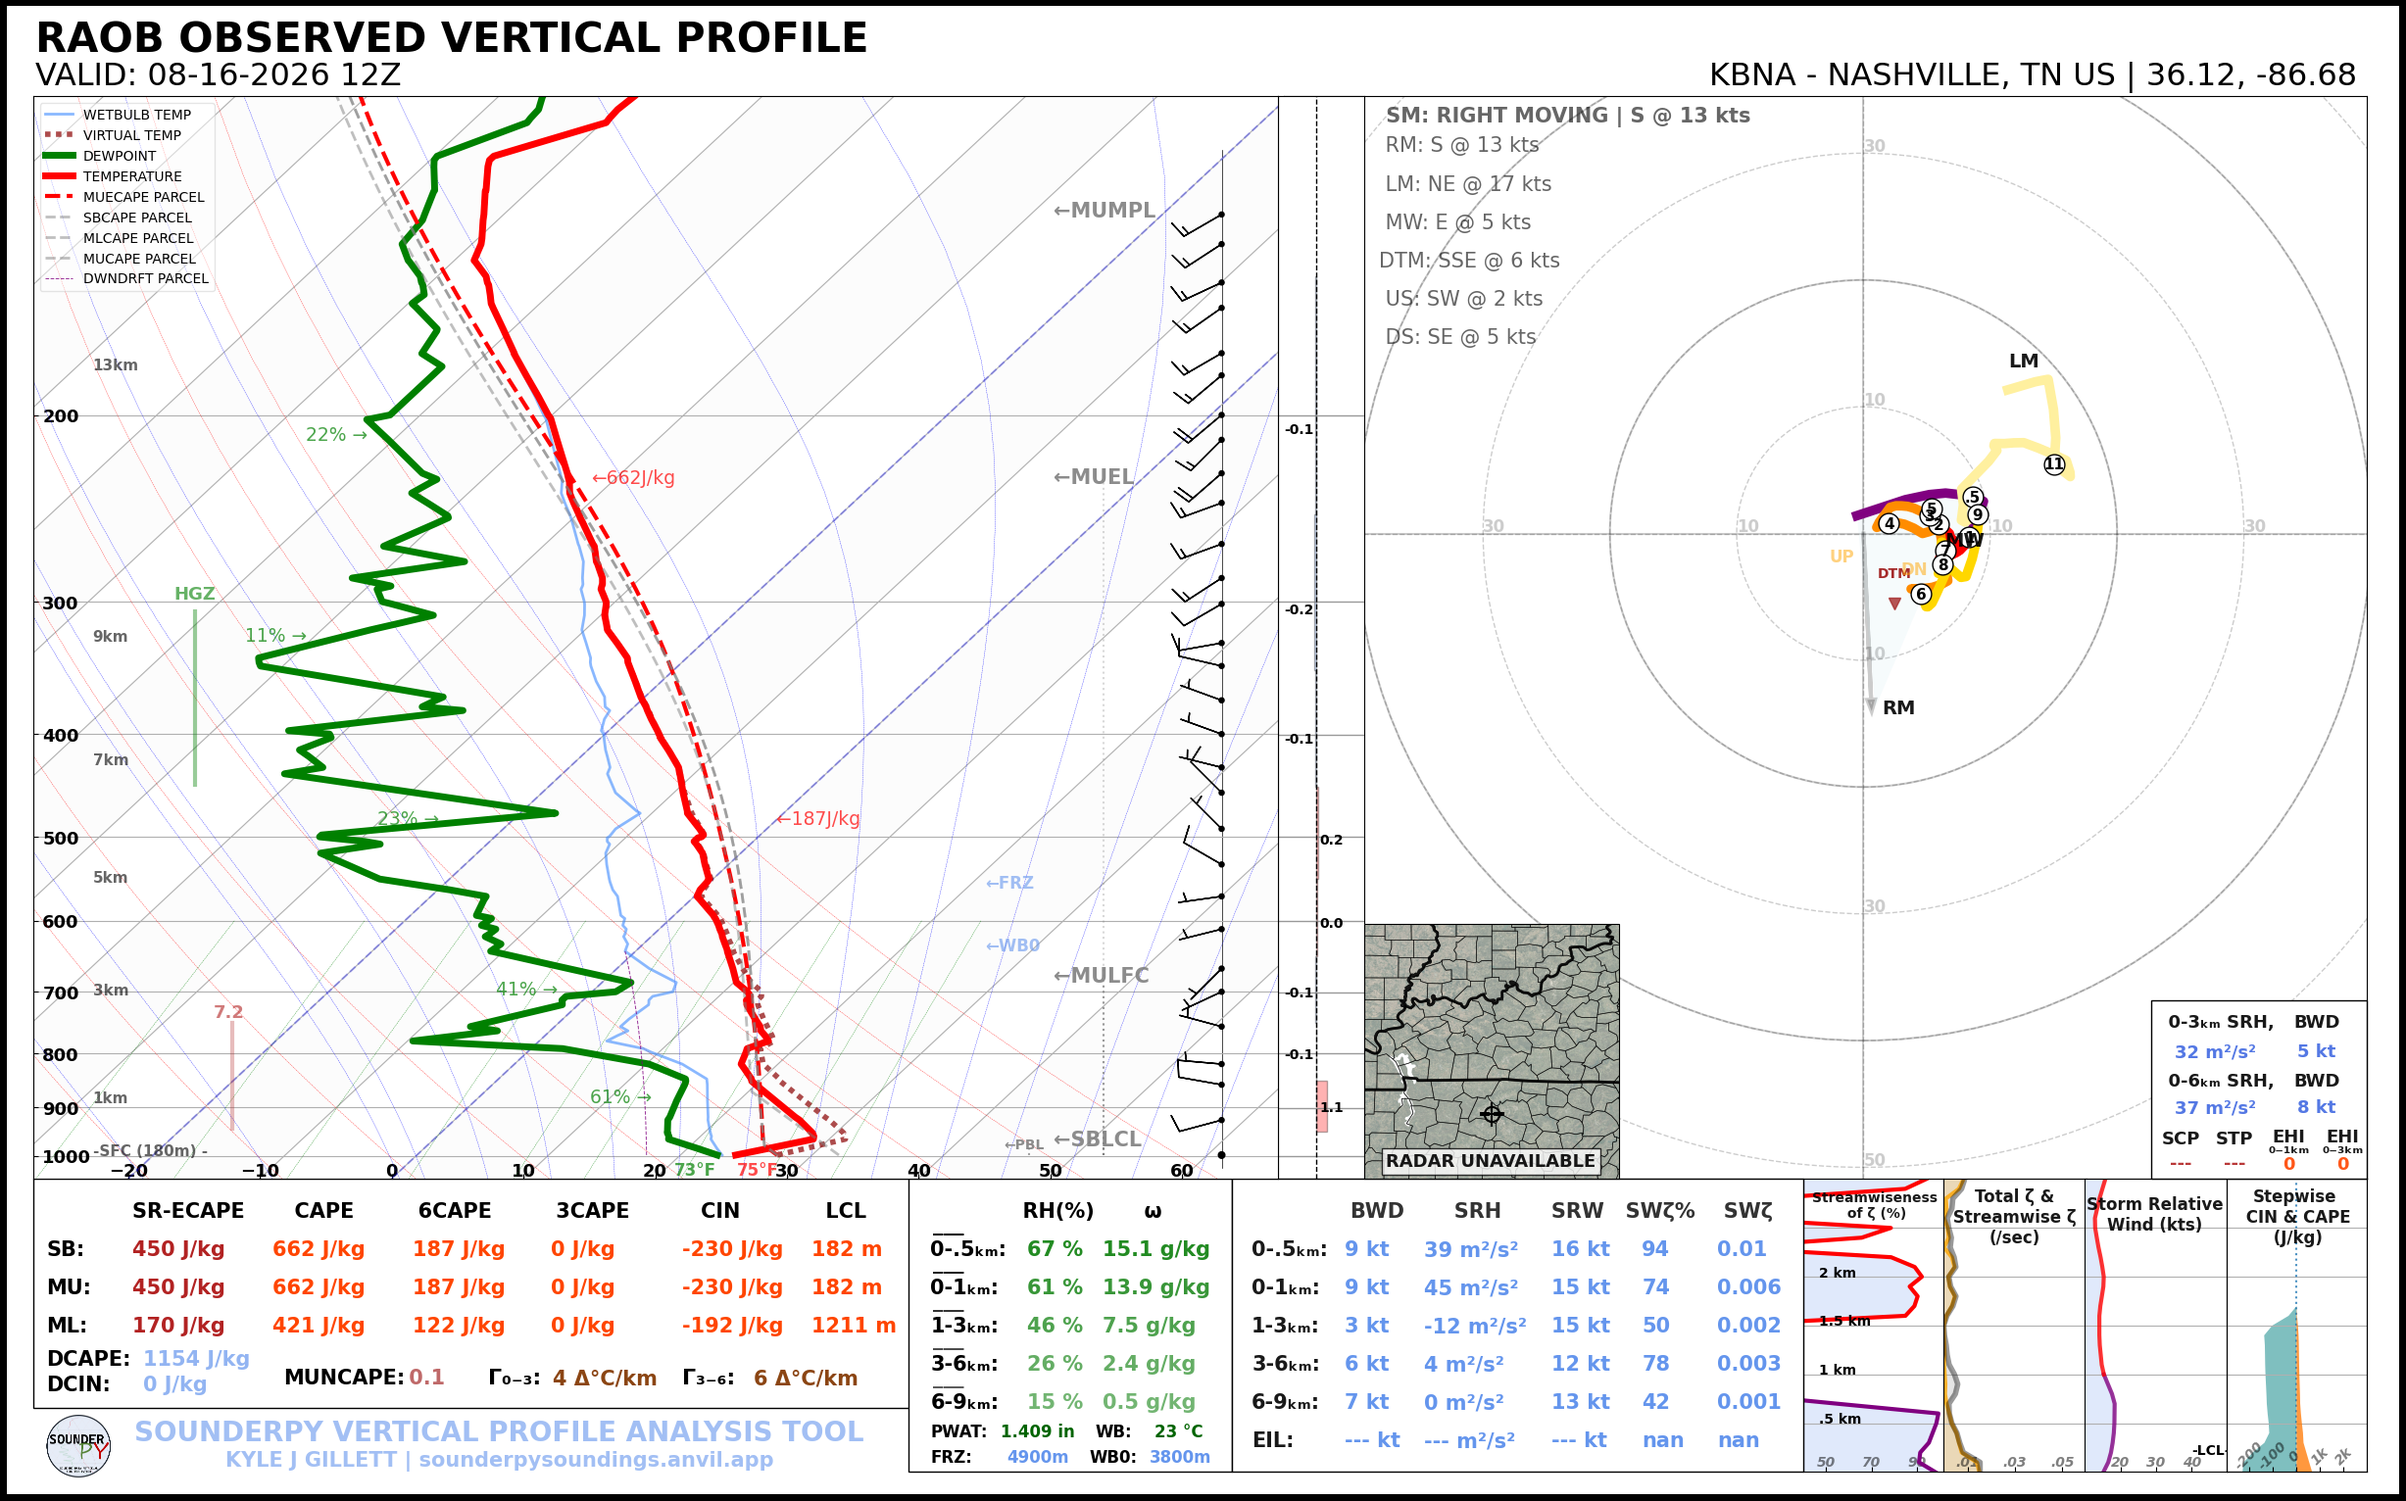
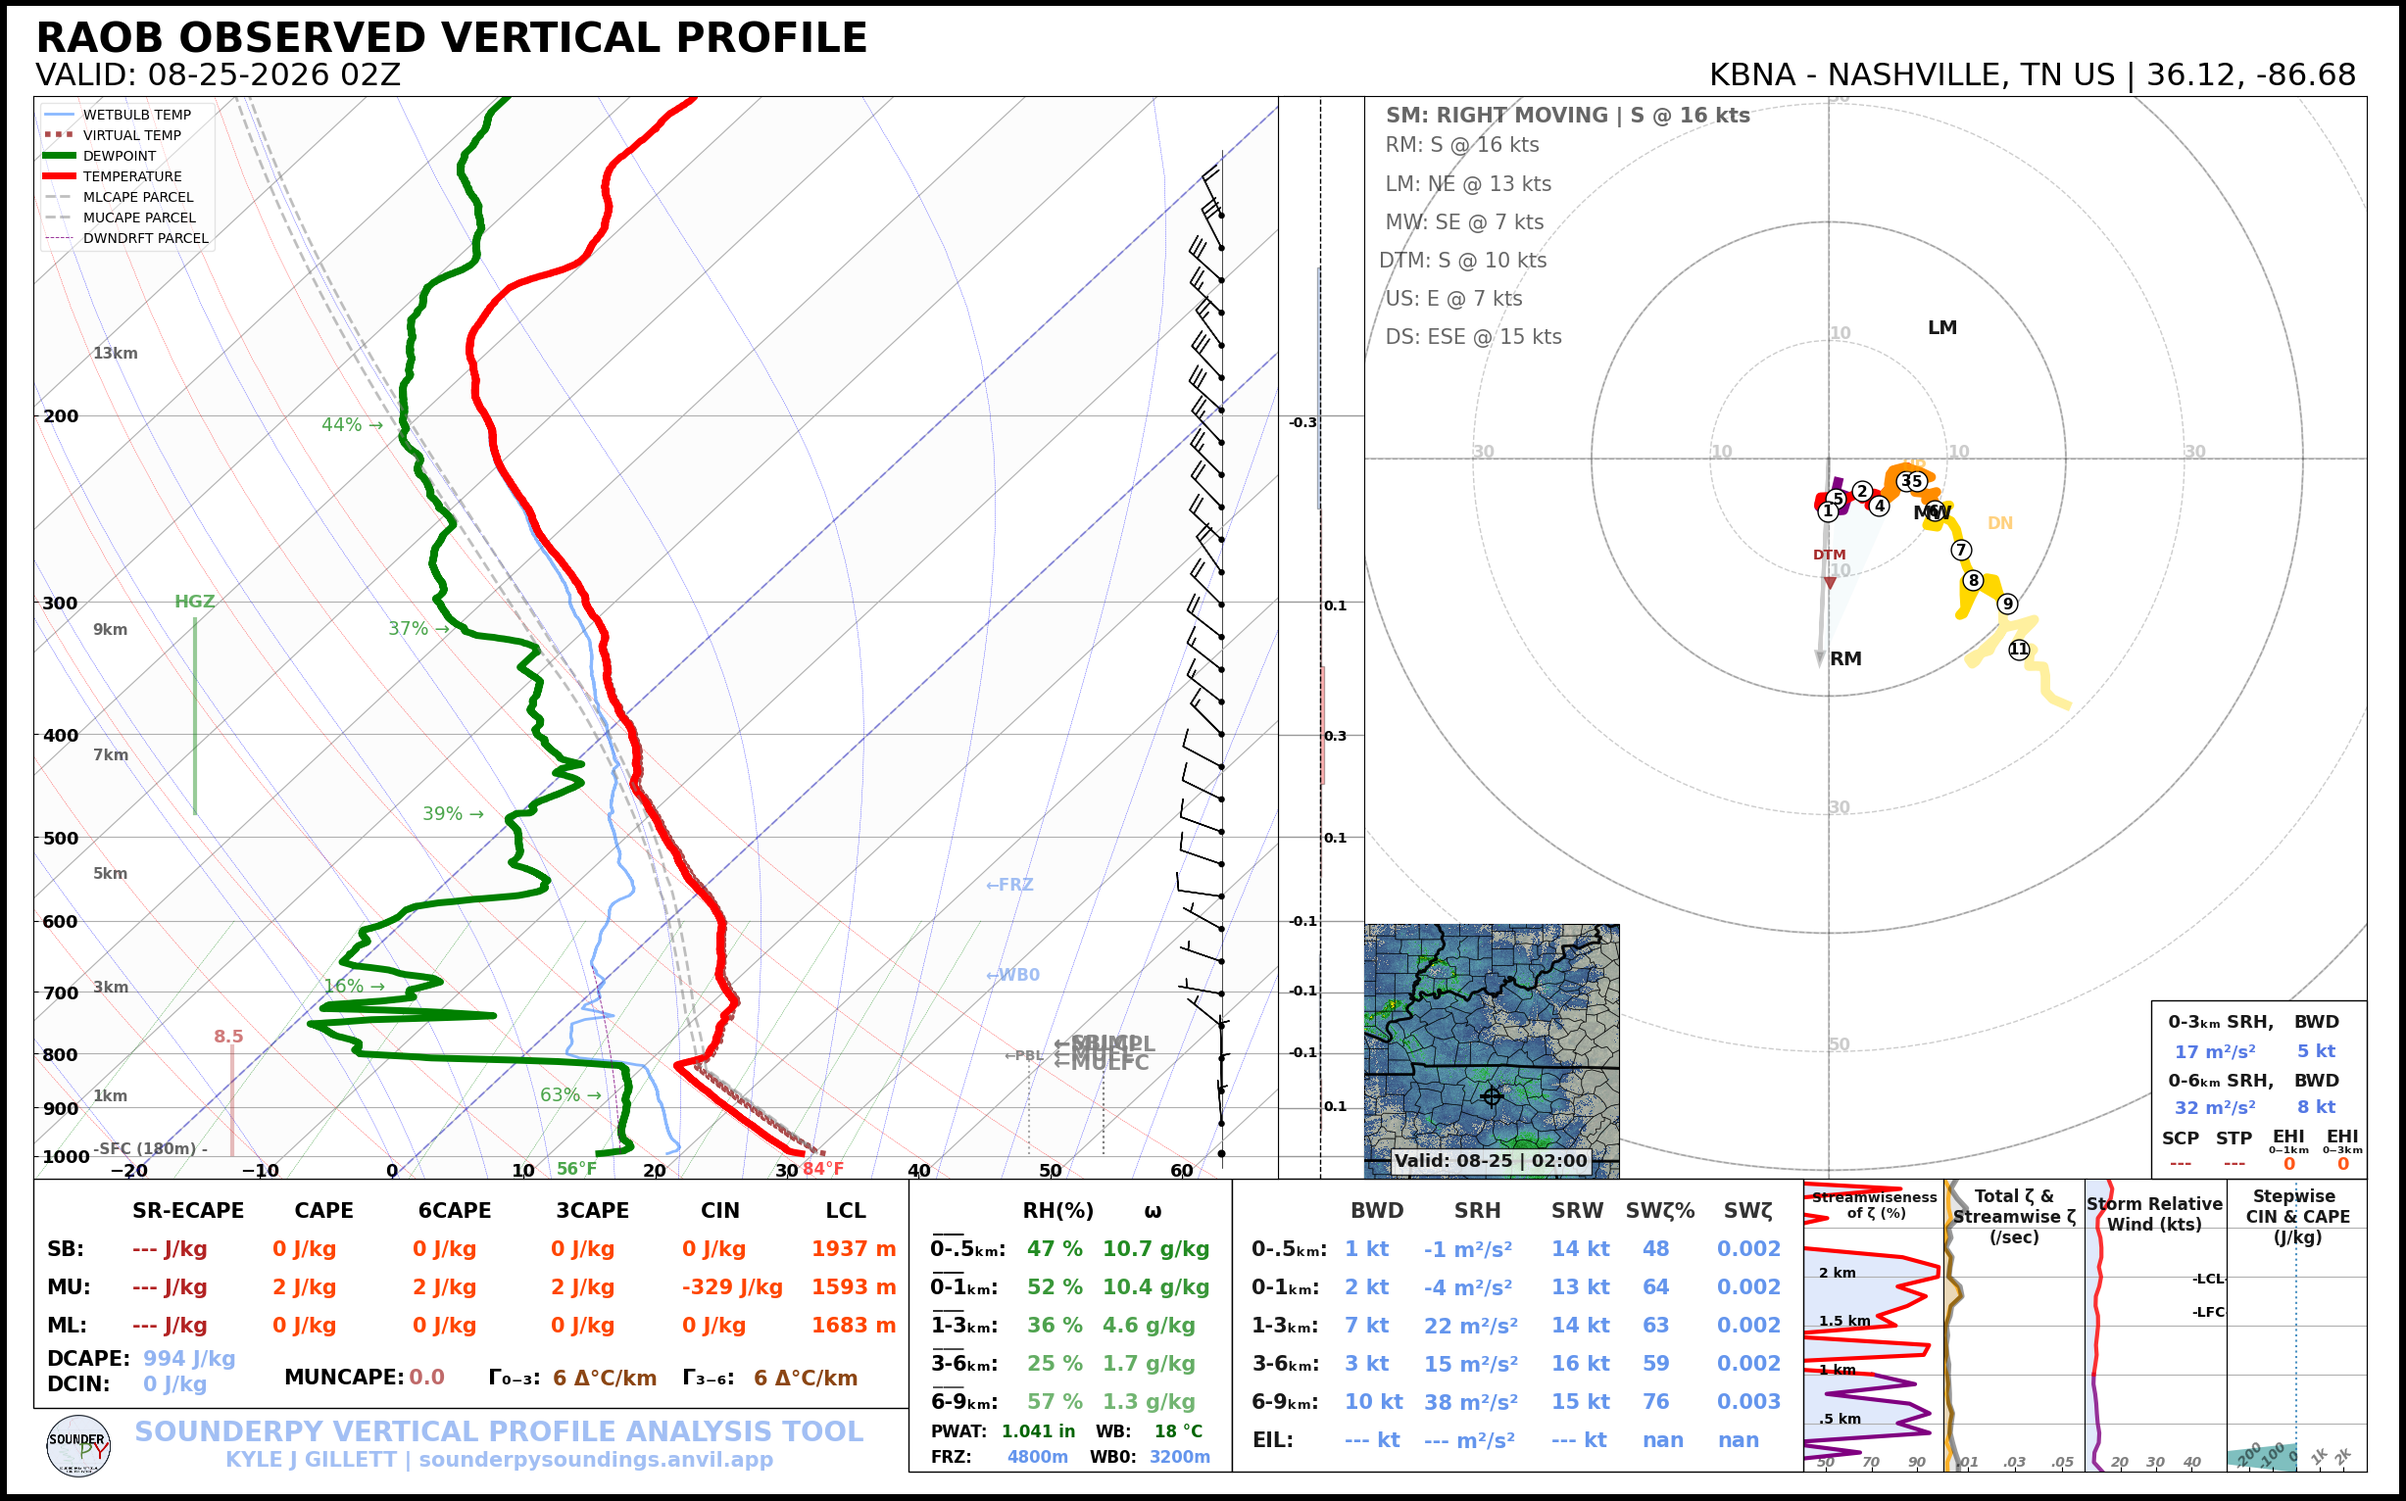
update

diff --git a/mapwall/index.html b/mapwall/index.html
@@ -68,6 +68,7 @@
       <a href="#"data-map="500mb">500mb Analysis</a>
       <a href="#"data-map="700mb">700mb Analysis</a>
       <a href="#"data-map="850mb">850mb Analysis</a>
+      <a href="#"data-map="Vort">500mb Vorticity</a>
     </div>
   </div>
   <div class="dropdown">
@@ -106,6 +107,7 @@ const mapFolders={
   "500mb":"upper_level_500mb",
   "700mb":"upper_level_700mb",
   "850mb":"upper_level_850mb",
+  "Vort":"upper_level_500mb_vort",
   "mrms":"metar_mrms",
 };
 let currentMap="300mb"
